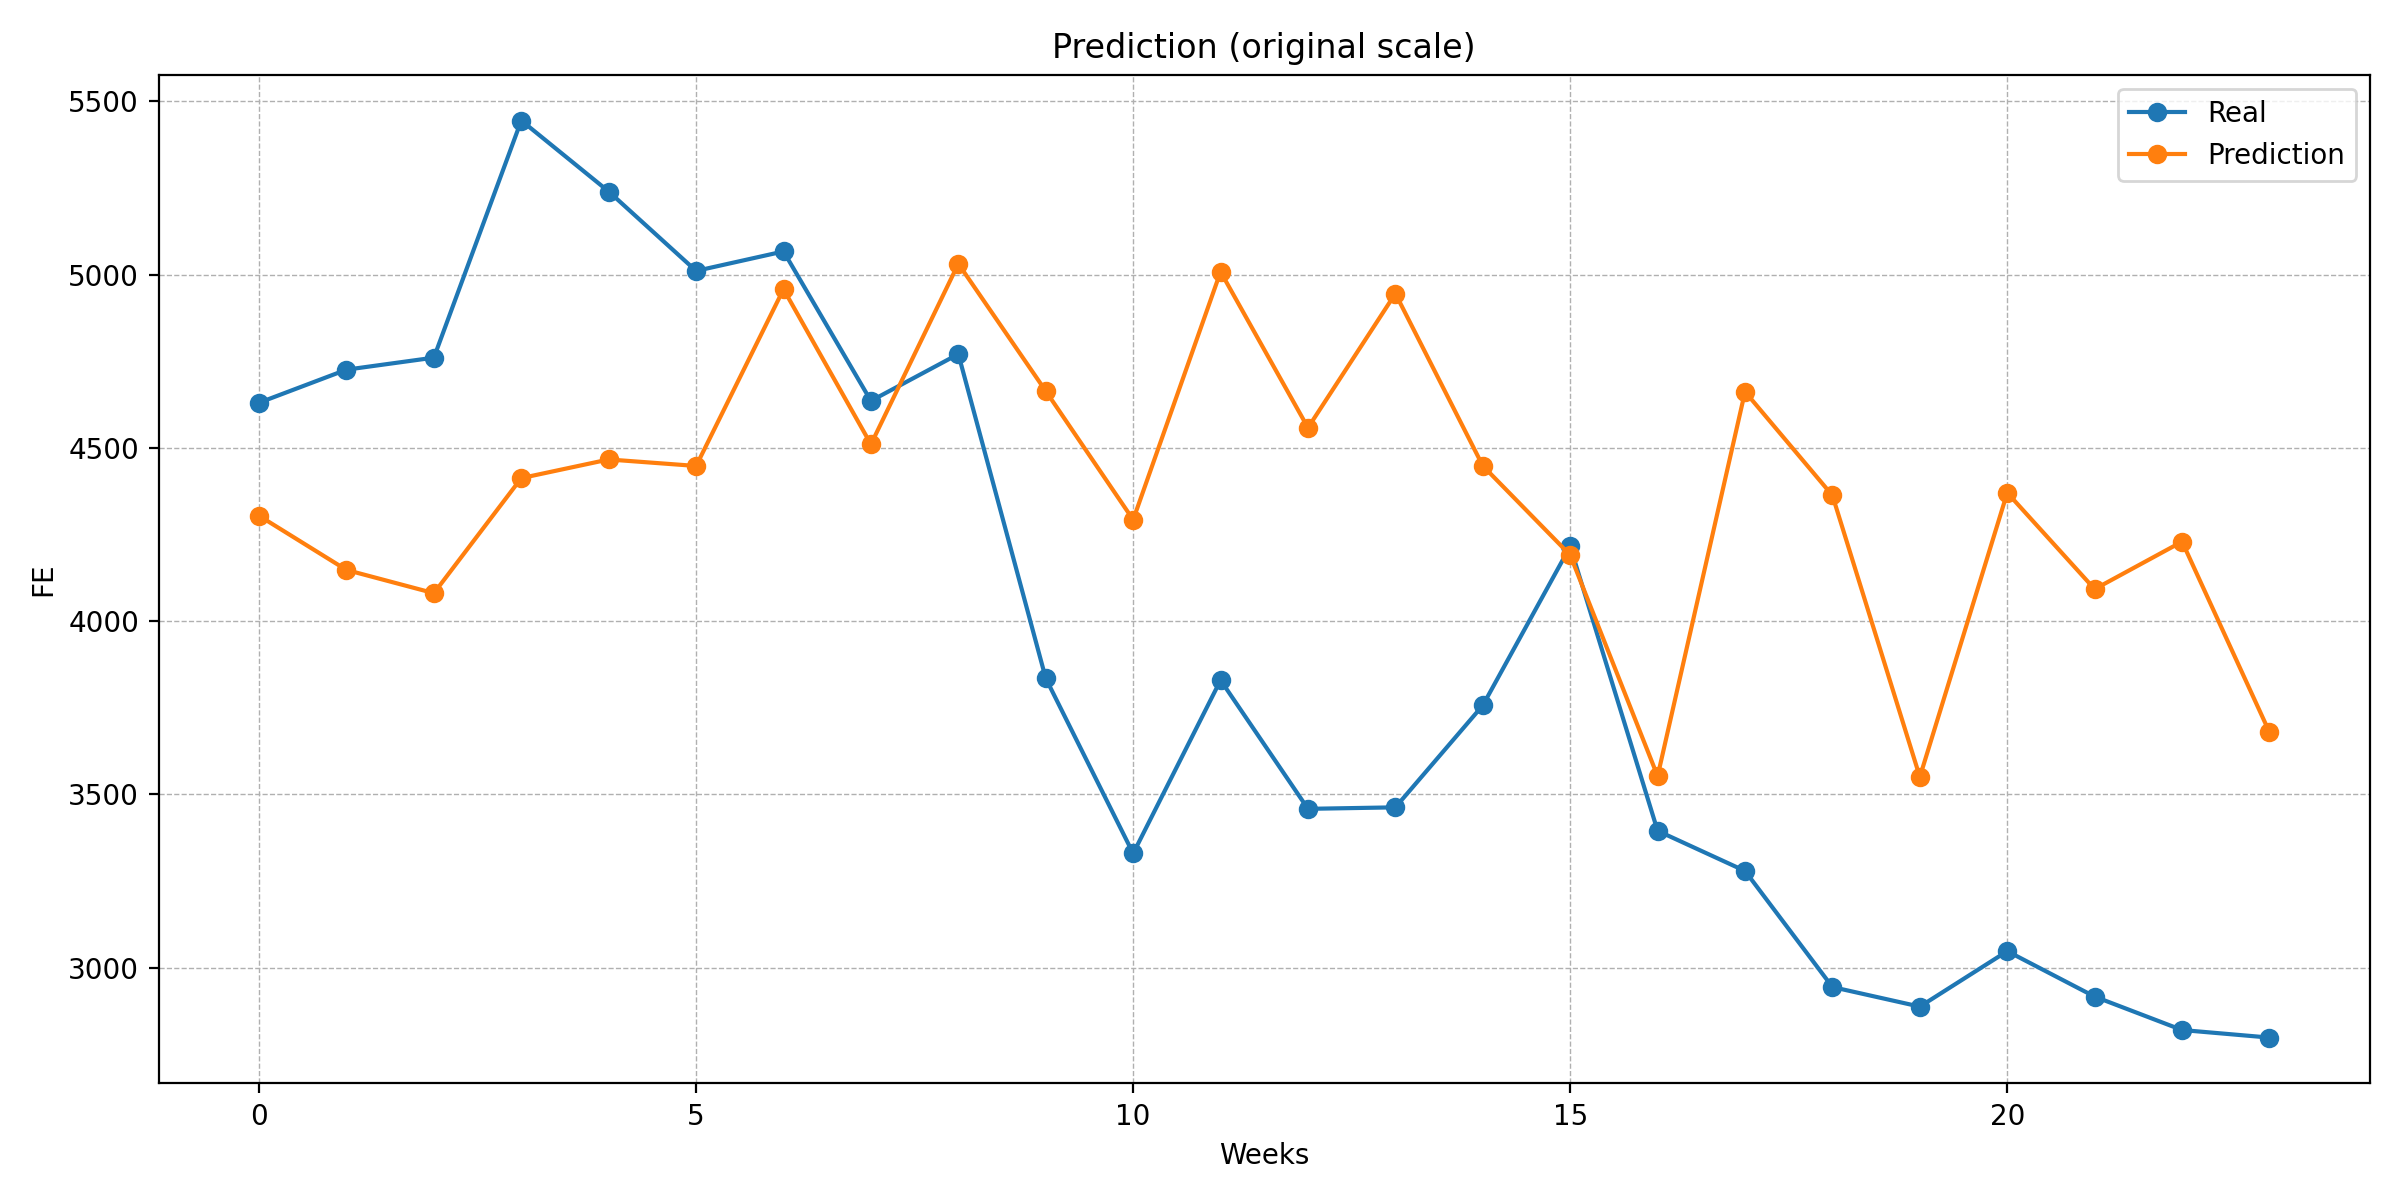
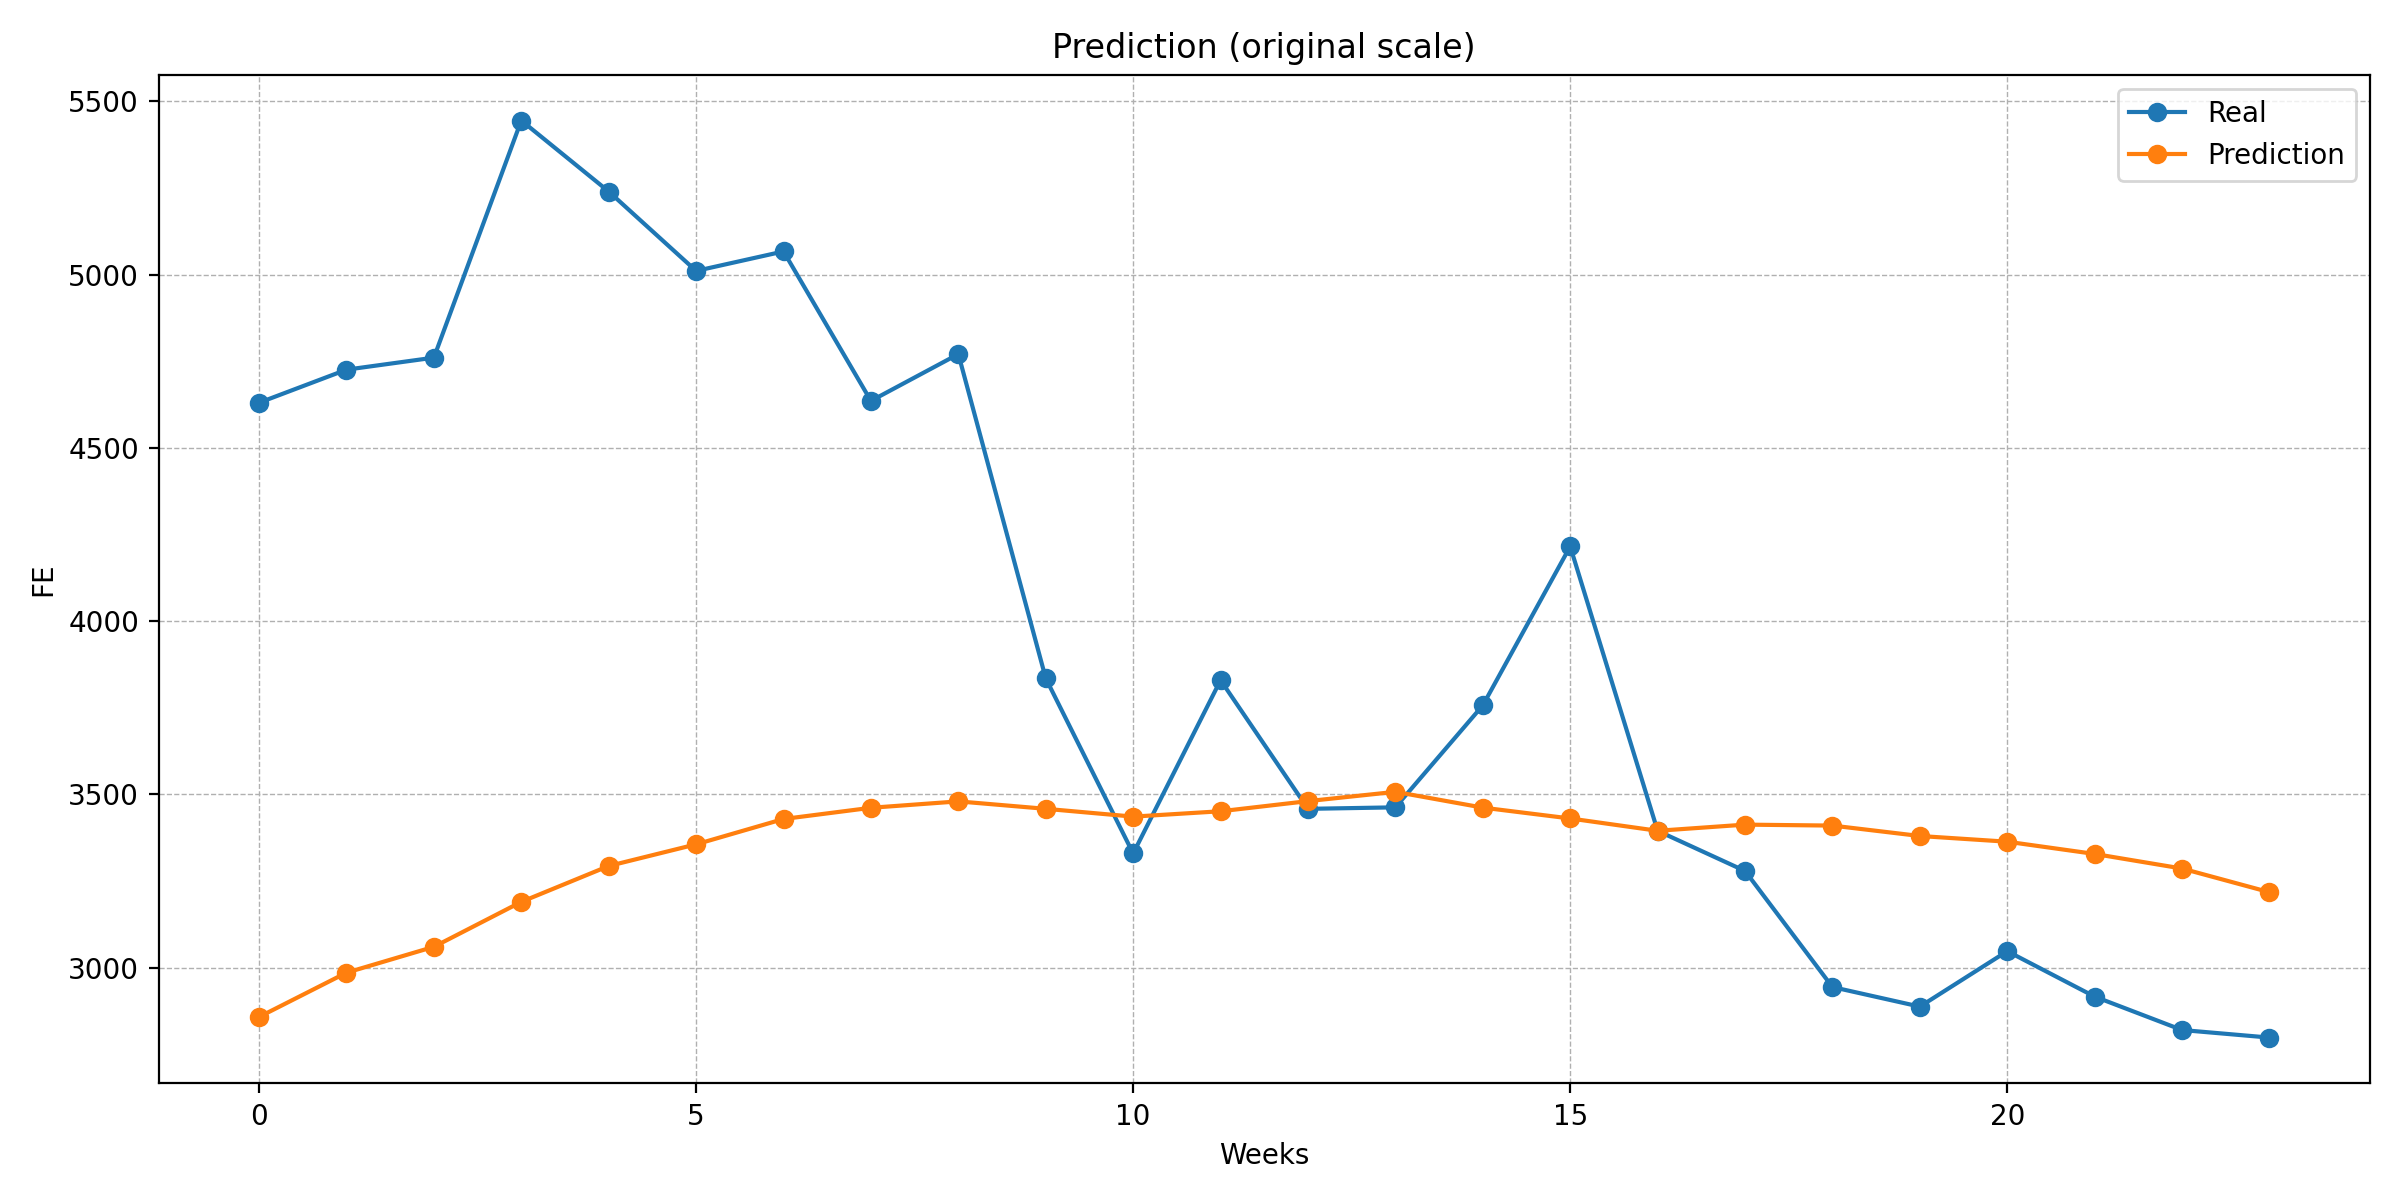
lstm done

diff --git a/functions.py b/functions.py
@@ -226,3 +226,95 @@ def run_transformer(df, target_col, window_size, test_size, batch_size, d_model,
     real = np.array(y_test) * (target_max - target_min + 1e-8) + target_min
 
     return real, preds
+
+
+
+def run_lstm(df, target_col, window_size, test_size, batch_size, hidden_size, num_layers, epoch_number, lr, device):
+
+
+    feature_cols = [col for col in df.columns if col not in ['FECHA', target_col]]
+    # Split train/test
+    train_df = df[:-test_size]
+    test_df = df[-(test_size + window_size):]
+
+    # Escalamiento manual
+    train_features = train_df[feature_cols].values
+    train_target = train_df[target_col].values
+    min_vals = train_features.min(axis=0)
+    max_vals = train_features.max(axis=0)
+    target_min = train_target.min()
+    target_max = train_target.max()
+
+    scaled_train = (train_features - min_vals) / (max_vals - min_vals + 1e-8)
+    scaled_target = (train_target - target_min) / (target_max - target_min + 1e-8)
+
+    # Crear ventanas para entrenamiento
+    X_train, y_train = [], []
+    for i in range(len(train_df) - window_size):
+        X_train.append(scaled_train[i:i + window_size])
+        y_train.append(scaled_target[i + window_size])
+
+    X_train = np.array(X_train)
+    y_train = np.array(y_train)
+
+    # Preparar test
+    test_features = test_df[feature_cols].values
+    test_target = test_df[target_col].values
+    scaled_test = (test_features - min_vals) / (max_vals - min_vals + 1e-8)
+    scaled_test_target = (test_target - target_min) / (target_max - target_min + 1e-8)
+
+    X_test, y_test = [], []
+    for i in range(test_size):
+        X_test.append(scaled_test[i:i + window_size])
+        y_test.append(scaled_test_target[i + window_size])
+
+    X_test = np.array(X_test)
+    y_test = np.array(y_test)
+
+    # Tensores
+    X_tensor = torch.tensor(X_train, dtype=torch.float32).to(device)
+    y_tensor = torch.tensor(y_train, dtype=torch.float32).unsqueeze(1).to(device)
+
+    # DataLoader
+    dataset = TensorDataset(X_tensor, y_tensor)
+    dataloader = DataLoader(dataset, batch_size, shuffle=False)
+
+
+    # LSTM model
+    class LSTMForecast(nn.Module):
+        def __init__(self, input_size, hidden_size=hidden_size, num_layers=num_layers):
+            super(LSTMForecast, self).__init__()
+            self.lstm = nn.LSTM(input_size, hidden_size, num_layers, batch_first=True, dropout=0.3)
+            self.fc = nn.Linear(hidden_size, 1)
+
+        def forward(self, x):
+            out, _ = self.lstm(x)
+            out = out[:, -1, :]
+            return self.fc(out)
+
+
+    model = LSTMForecast(input_size=X_train.shape[2]).to(device)
+    criterion = nn.MSELoss()
+    optimizer = torch.optim.Adam(model.parameters(), lr, weight_decay=1e-4)
+
+    # Entrenamiento
+    for epoch in range(epoch_number):
+        for batch_X, batch_y in dataloader:
+            optimizer.zero_grad()
+            output = model(batch_X)
+            loss = criterion(output, batch_y)
+            loss.backward()
+            optimizer.step()
+        if (epoch + 1) % 10 == 0:
+            print(f"Epoch {epoch + 1}, Loss: {loss.item():.4f}")
+
+    # Evaluación
+    X_test_tensor = torch.tensor(X_test, dtype=torch.float32).to(device)
+    model.eval()
+    with torch.no_grad():
+        preds_scaled = model(X_test_tensor).squeeze().cpu().numpy()
+
+    preds = preds_scaled * (target_max - target_min + 1e-8) + target_min
+    real = np.array(y_test) * (target_max - target_min + 1e-8) + target_min
+
+    return real, preds

diff --git a/LSTM.py b/LSTM.py
@@ -30,7 +30,7 @@ df = df.sort_values('FECHA')
 
 # Parámetros
 target_col = 'FE'
-feature_cols = [col for col in df.columns if col not in ['FECHA', target_col]]
+
 
 # good parameters for container prediction
 window_size = 48
@@ -38,94 +38,10 @@ test_size = 24
 batch_size = 16
 hidden_size = 256
 num_layers = 2
-epoch_number = 2000
+epoch_number = 20
 lr = 0.0001
 
-
-
-# Split train/test
-train_df = df[:-test_size]
-test_df = df[-(test_size + window_size):]
-
-# Escalamiento manual
-train_features = train_df[feature_cols].values
-train_target = train_df[target_col].values
-min_vals = train_features.min(axis=0)
-max_vals = train_features.max(axis=0)
-target_min = train_target.min()
-target_max = train_target.max()
-
-scaled_train = (train_features - min_vals) / (max_vals - min_vals + 1e-8)
-scaled_target = (train_target - target_min) / (target_max - target_min + 1e-8)
-
-# Crear ventanas para entrenamiento
-X_train, y_train = [], []
-for i in range(len(train_df) - window_size):
-    X_train.append(scaled_train[i:i + window_size])
-    y_train.append(scaled_target[i + window_size])
-
-X_train = np.array(X_train)
-y_train = np.array(y_train)
-
-# Preparar test
-test_features = test_df[feature_cols].values
-test_target = test_df[target_col].values
-scaled_test = (test_features - min_vals) / (max_vals - min_vals + 1e-8)
-scaled_test_target = (test_target - target_min) / (target_max - target_min + 1e-8)
-
-X_test, y_test = [], []
-for i in range(test_size):
-    X_test.append(scaled_test[i:i + window_size])
-    y_test.append(scaled_test_target[i + window_size])
-
-X_test = np.array(X_test)
-y_test = np.array(y_test)
-
-# Tensores
-X_tensor = torch.tensor(X_train, dtype=torch.float32).to(device)
-y_tensor = torch.tensor(y_train, dtype=torch.float32).unsqueeze(1).to(device)
-
-# DataLoader
-dataset = TensorDataset(X_tensor, y_tensor)
-dataloader = DataLoader(dataset, batch_size, shuffle=False)
-
-
-# LSTM model
-class LSTMForecast(nn.Module):
-    def __init__(self, input_size, hidden_size=hidden_size, num_layers=num_layers):
-        super(LSTMForecast, self).__init__()
-        self.lstm = nn.LSTM(input_size, hidden_size, num_layers, batch_first=True, dropout=0.3)
-        self.fc = nn.Linear(hidden_size, 1)
-
-    def forward(self, x):
-        out, _ = self.lstm(x)
-        out = out[:, -1, :]
-        return self.fc(out)
-
-
-model = LSTMForecast(input_size=X_train.shape[2]).to(device)
-criterion = nn.MSELoss()
-optimizer = torch.optim.Adam(model.parameters(), lr, weight_decay=1e-4)
-
-# Entrenamiento
-for epoch in range(epoch_number):
-    for batch_X, batch_y in dataloader:
-        optimizer.zero_grad()
-        output = model(batch_X)
-        loss = criterion(output, batch_y)
-        loss.backward()
-        optimizer.step()
-    if (epoch + 1) % 10 == 0:
-        print(f"Epoch {epoch + 1}, Loss: {loss.item():.4f}")
-
-# Evaluación
-X_test_tensor = torch.tensor(X_test, dtype=torch.float32).to(device)
-model.eval()
-with torch.no_grad():
-    preds_scaled = model(X_test_tensor).squeeze().cpu().numpy()
-
-preds = preds_scaled   * (target_max - target_min + 1e-8) + target_min
-real = np.array(y_test)   * (target_max - target_min + 1e-8) + target_min
+real, preds = run_lstm(df, target_col, window_size, test_size, batch_size, hidden_size, num_layers, epoch_number, lr, device)
 
 print('')
 print("Error Metrics:")
